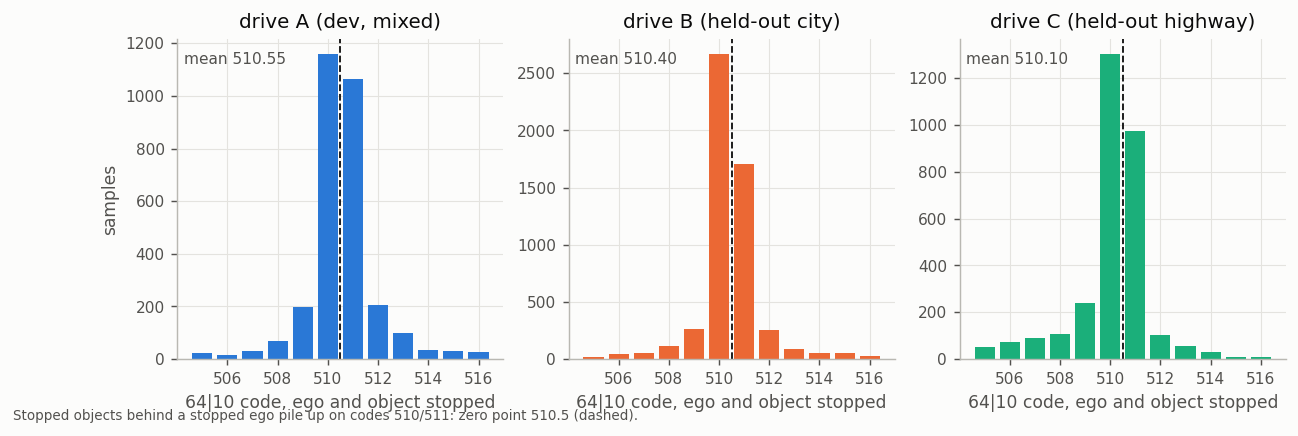
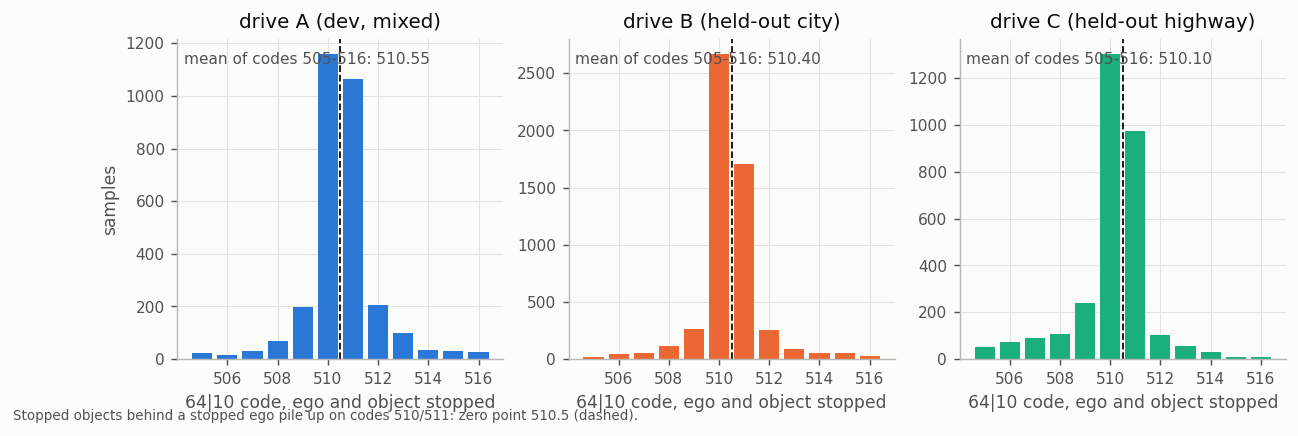
docs: figure-caption review: version labels, shot captions, clipped labels; 0x680 ratio and wording checks (#90)

Changed region(s): [[0.7704, 0.1193, 0.9553, 0.1491], [0.4622, 0.1193, 0.6471, 0.1491], [0.1849, 0.1193, 0.339, 0.1491]]

diff --git a/tools/make_analysis_figures.py b/tools/make_analysis_figures.py
@@ -141,7 +141,7 @@ def standstill_codes():
         w = (g.vel_code[(g.vel_code >= 505) & (g.vel_code <= 516)]).mean()
         ax.set_title(f"drive {DRIVE_NAME[d]}")
         ax.set_xlabel("64|10 code, ego and object stopped")
-        ax.text(0.02, 0.92, f"mean {w:.2f}", transform=ax.transAxes, fontsize=8.5, color=INK2)
+        ax.text(0.02, 0.92, f"mean of codes 505-516: {w:.2f}", transform=ax.transAxes, fontsize=8.5, color=INK2)
     axes[0].set_ylabel("samples")
     save(fig, "standstill_codes", "Stopped objects behind a stopped ego pile up on codes 510/511: zero point 510.5 (dashed).")
 
@@ -450,7 +450,7 @@ def range_walk():
     axes[0].legend(fontsize=7.5, loc="upper left")
     NUMBERS["range_walk"] = out
     save(fig, "range_walk_vs_integrated_vrel", "The camera box-height ratio over 1.5 s needs no calibration. "
-                                               "Integrating the radar's velocity tracks it 2-4x better than the radar's own range change.")
+                                               "Integrating the radar's velocity tracks it 1.4-3.7x better than the radar's own range change.")
 
 
 # ---------------------------------------------------------------- slot field roles -----------------------------------
@@ -727,7 +727,7 @@ def tracker_range():
     a1.axhline(0, color=INK, lw=1)
     a1.set_xlabel("vision lead distance (m)")
     a1.set_ylabel("published radar lead − vision lead (m)")
-    a1.set_title("Lead distance radard receives")
+    a1.set_title("Lead distance radard receives (matching steps up to fused 2.1)")
     a1.legend(loc="lower left")
     for key, col, lab in (("before", S2, "before"), ("after", S1, "after")):
         a2.plot(xs, [B[k][f"mean_abs_tick_step_m_{key}"] for k in B], color=col, marker="o", markersize=4.5, label=lab)
@@ -899,7 +899,7 @@ def initial_attribute_zeros():
     fig.tight_layout()
     save(fig, "initial_attribute_zeros", "Example A, original-CAN checked. The initial tuple occurs on 5,774 "
          "of 22,501 age-1 rows; its position is a placeholder. "
-         "Full byte272 is a structural view, not a calibrated height measurement.")
+         "Full byte 272 is shown as a raw height-like code.")
 
 
 def id85_direction_code_structure():
@@ -1077,7 +1077,7 @@ def target_366_coding():
     """Owner-only fixed-code comparison, retaining all discrepancy tails."""
     info = summary("target_366_coding")
     fig, axes = plt.subplots(1, 2, figsize=(9, 3.8), sharey=True)
-    for ax, drive in zip(axes, ["A", "B"]):
+    for ax, drive in zip(axes, ["O2", "O3"]):
         for scope, label, color in [("all", "All eligible pairs", S2),
                                     ("geometry_agreement", "Distance agreement only", S1)]:
             group = next(g for g in info["groups"] if g["drive"] == drive and g["scope"] == scope)

diff --git a/tools/make_fused_figures.py b/tools/make_fused_figures.py
@@ -265,7 +265,7 @@ def kalman_combinations() -> None:
         ax.text(r["openpilot_file_lines"] + 4, yi, f'{r["openpilot_file_lines"]} lines', va="center", fontsize=8.5, color=INK)
         ax.text(375, yi, f'unjustified hard braking {r["unjustified_ticks"]} ticks   lead switches {r["switches"]}', va="center",
                 fontsize=8.2, color=INK2)
-        ax.text(700, yi, ("passes: today's fused and openpilot version" if key == "no_SL" else "passes") if r["passes"] else why.get(key, "fails"), va="center", fontsize=8.2,
+        ax.text(700, yi, ("passes: base of today's fused" if key == "no_SL" else "passes") if r["passes"] else why.get(key, "fails"), va="center", fontsize=8.2,
                 color=FUS if r["passes"] else S4)
     ax.set_yticks(y, [n for n, _, _ in rows]); ax.invert_yaxis(); ax.set_xlim(0, 960); ax.set_xticks([0, 100, 200, 300])
     ax.set_xlabel("total lines of the openpilot file at 2.0 (upstream/ars510_radar.py)")
@@ -279,7 +279,7 @@ def kalman_justified() -> None:
              "fused - S - R - L - Y - G", "fused - ego scale", "fused - age 60", "fused - std gate", "fused - young factor",
              "fused - ACC (summaries kept)", "fused - ACC - summaries", "colored", "tuned (anchor)"]
     names = {"fused, ACC/summary units corrected": "fused 2.1 (with summaries)", "fused": "fused 2.0 (with summaries)",
-             "fused - S - L": "2.0 − summaries − relink (today's fused)",
+             "fused - S - L": "2.0 − summaries − relink (base of today's fused)",
              "fused - S - R - L": "2.0 − summaries − relink − range fusion", "fused - S - R - L - Y - G": "… − young factor − std gate",
              "fused - ACC (summaries kept)": "2.0 − ACC target", "fused - ACC - summaries": "2.0 − ACC target − summaries",
              "colored": "colored (experimental)", "tuned (anchor)": "earlier tuned profile"}

diff --git a/tools/make_guide_figures.py b/tools/make_guide_figures.py
@@ -207,8 +207,9 @@ def parts_ledger() -> None:
     ax.text(p["code_lines"] + 1.2, yi, f"{p['code_lines']}  ·  {p['without']}", va="center", fontsize=7.6, color=INK2)
   ax.set_yticks(y, [f"{_short(p['part'])}  [{p['since'].split(' ')[0]}]" for p in parts], fontsize=8.5)
   ax.set_xlim(0, 215); ax.set_xlabel("code lines in upstream/ars510_radar.py (comments, docstrings and blank lines excluded)")
+  used = {status(p["upstream"]) for p in parts}
   for s, c in colors.items():
-    ax.barh(np.nan, 0, color=c, label=s)
+    if s in used: ax.barh(np.nan, 0, color=c, label=s)
   ax.legend(loc="upper right", title="for an upstream PR", title_fontsize=8)
   ax.set_title(f"What each of the openpilot file's {L['file_code_lines']} code lines buys (label: lines · cost of removing it)", loc="left")
   ax.grid(axis="y", visible=False)
@@ -219,7 +220,7 @@ def oracle() -> None:
   """Unnecessary and missed braking against openpilot's planner on a hindsight lead (confident moments), two data sets."""
   O = json.loads((SUM / "oracle_reference.json").read_text())
   sets = (("owner's road drives (7.65 h)", O["confident"], ["vision", "2.1", "2.3", "2.4"]),
-          ("27 replay drives, independent (6.72 h)", O["suite_34_drives"]["confident"], ["vision", "2.1", "2.3", "2.4"]))
+          ("27 replay drives (6.72 h)", O["suite_34_drives"]["confident"], ["vision", "2.1", "2.3", "2.4"]))
   names = {"vision": "vision only", "2.1": "2.1", "2.3": "2.3", "2.4": "2.4 (default)"}; col = {"vision": VIS, "2.1": V21, "2.3": GRAY, "2.4": V23}
   fig, axs = plt.subplots(2, 2, figsize=(11.5, 5.8))
   for r, (label, C, vers) in enumerate(sets):

diff --git a/docs/07_velocity_excursions.md b/docs/07_velocity_excursions.md
@@ -25,7 +25,7 @@ warning and −3.5 m/s².*
 
 ![false closing sequence](img/shots/excursion_false_closing_sequence.jpg)
 
-*Four frames of the same event, 1 s apart: the lead sits at 41-51 m and its box keeps its size, while the radar lead's
+*Four frames of the same event over 4 s: the lead sits at 41-51 m and its box keeps its size, while the radar lead's
 vRel reads +2.2 to +2.5 m/s and then −2.5 m/s; its −6 m/s low falls between the frames (plot above).*
 
 ![false closing on a real drive](img/analysis/jitter_false_closing_event.png)
@@ -82,7 +82,7 @@ Four closed-loop drives with the radar feeding radard (1.05 h, 0.31 h following 
 <summary>Caveats and the residual error</summary>
 
 - 0.045 is a fitted Gaussian-equivalent: the robust (MAD) core is ~0.027 m/s per count over codes 12-70, and heavy
-  tails (kurtosis 1.3-8) lift the RMS. Above code ~40 the error grows less than proportionally. The ACC
+  tails (kurtosis 1.3-8) lift the RMS. Above code ~60 the main set's error grows faster than proportionally (figure). The ACC
   target has its own error (~0.6 m/s).
 - Within a range band, `240|7` separates excursion records below 40 m (AUC 0.95) and barely beyond (0.42-0.55)
   ([`continental_field_map.json`](../data/analysis/summaries/continental_field_map.json)).

diff --git a/docs/12_kalman_filter.md b/docs/12_kalman_filter.md
@@ -303,7 +303,7 @@ replayed through openpilot ([`kalman_variants.json`](../data/analysis/summaries/
 | variant | bench | openpilot replays |
 |---|---|---|
 | Student-t update instead of the 3σ clamp | same as the clamp | – |
-| speed + acceleration state, with the ACC target's acceleration as a reading | worse than one speed state | – |
+| speed + acceleration state, with the ACC target's acceleration as a reading | worse than one speed state on held-out and owner drives, slightly better on fresh | – |
 | noise learned from all slot fields (gradient boosting) | small gain; it relearns `240\|7`, ego speed and `84\|10` | – |
 | object-list error as its own state (colored noise, τ 1.2 s), noise scaled by ego speed and `84\|10` | **14-16% fewer false closings** on held-out and fresh drives; responds as fast to ACC-defined drops (below) | 27 drives: held-out 30 → 29 hard ticks, one far false closing held for seconds (2 → 30 on the further drives) |
 | retuned `fused` constants (σ per count, ACC σ, lead accel) | – | 8 fresh drives: the current constants are as good as any retuned set on every check |

diff --git a/docs/10_research_directions.md b/docs/10_research_directions.md
@@ -156,7 +156,7 @@ opendbc's ruff rules (`upstream/ruff.toml`, checked in CI) and its `ty` type che
 same driving as the full filter: parts were removed alone and together on 27 replay drives, and every hard brake was
 checked against the radar's raw range, the camera and the driver ([12](12_kalman_filter.md#removing-parts-together));
 the wider ACC match and the path gate came from road drives ([12](12_kalman_filter.md#path-gate)). The ledger below
-says what each line buys and which parts an upstream PR would drop first. Constants are fixed in the file, it runs one
+says what each line buys and which parts an upstream PR could drop. Constants are fixed in the file, it runs one
 configuration, and points carry `trackId`, `dRel`, `yRel` and `vRel` (the other RadarPoint fields are deprecated
 upstream). A test keeps it equal to `fused` point for point (bundled samples; two full drives checked with 2.1.0), and
 `install.py --profile openpilot` drives it on a fork. What upstream review is likely to ask, from recent openpilot / opendbc radar PRs:

diff --git a/docs/02_object_list.md b/docs/02_object_list.md
@@ -136,11 +136,11 @@ Tracks younger than about 50-60 cycles carry unconverged range and velocity:
   age 11; figure below);
 - about a quarter of age-1 samples (26% over 700 segments) are an initialization template with a placeholder
   position at 0 m; the decoder withholds them ([03](03_slot_fields.md#class-and-size));
-- a newborn track can start tens of metres off (one read 38 m for a car at about 100 m and walked out over 3 s).
+- a newborn track can start tens of metres off (one read about 39 m for a car at about 100 m and walked out within about 5 s of its birth).
 
 ![young track](img/shots/young_track_convergence.jpg)
 
-*A newborn track (gray, dashed) reads 38 m for cars about 100 m ahead and walks out to 107 m over ~3 s.*
+*A newborn track (gray, dashed) reads about 40 m for cars about 100 m ahead and walks out to about 107 m within 5 s.*
 
 ![age convergence](img/analysis/age_convergence.png)
 

diff --git a/README.md b/README.md
@@ -43,7 +43,7 @@ what the driver did
 
 - **Leads come from the radar** about 87% of the time a lead exists, so radard follows the radar's measured distance
   and speed.
-- **Braking starts when vision-only's would** on average (−0.01 s, 95% CI −0.07 … +0.04), and the planner is already asking for
+- **Braking starts at the same time as vision only** on average (−0.01 s, 95% CI −0.07 … +0.04), and the planner is already asking for
   ≤ −1 m/s² before 41% of the driver's brake presses (vision: 40%). On some real slowdowns the radar sees the closing
   first (curves, far leads); on others vision does.
 - **Braking that only the radar wanted** happens about 0.22 times per hour (the unfiltered radar: 1.75), always while

diff --git a/docs/06_accuracy.md b/docs/06_accuracy.md
@@ -83,7 +83,8 @@ often wet or at night, hilly) and **C** (held out, 24 min highway). The referenc
 
 - **Over ground.** See [03](03_slot_fields.md#kinematics).
 - **Nominal zero 510.5.** While ego is stopped (below 0.05 m/s, objects of age 10 or more), the dominant object-code
-  peak is at 510 and 511; weighted means of the four most frequent codes are 510.486 / 510.400 / 510.198 on A / B / C.
+  peak is at 510 and 511; weighted means of the four most frequent codes are 510.486 / 510.400 / 510.198 on A / B / C (full
+  drives; the figure shows the bundled sample's mean over codes 505-516).
 
   ![standstill codes](img/analysis/standstill_codes.png)
 

diff --git a/docs/08_openpilot_integration.md b/docs/08_openpilot_integration.md
@@ -156,7 +156,7 @@ when vision does on average and keeps the radar's measured distance.
 
 ![radar sees the closing first](img/shots/curve_early_closing.jpg)
 
-*Brake event E3: the lead is in a left curve (lateral offset about +6 m). The radar lead reads a closing speed of
+*Brake event E3: the lead is in a left curve (lateral offset about +3.5 m). The radar lead reads a closing speed of
 −5 to −8 m/s while vision reads about −1; the driver braked about 2 s later.*
 
 ![brake events](img/analysis/brake_events.png)

diff --git a/docs/00_start_here.md b/docs/00_start_here.md
@@ -100,7 +100,7 @@ braking, destabilises the lead, or (for the ego-speed alignment) costs no line.
 ![what each part is worth](img/analysis/kalman_ablation.png)
 
 The single-file openpilot version carries the same parts; this is what each of its lines buys and which ones an
-upstream PR would drop first:
+upstream PR could drop:
 
 ![parts ledger](img/analysis/guide_parts_ledger.png)
 
